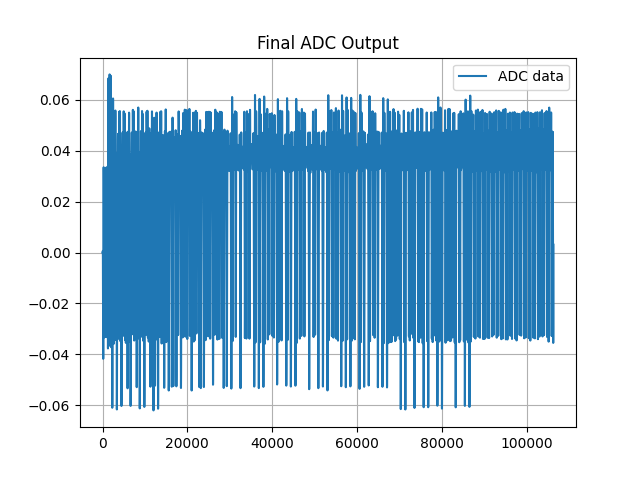
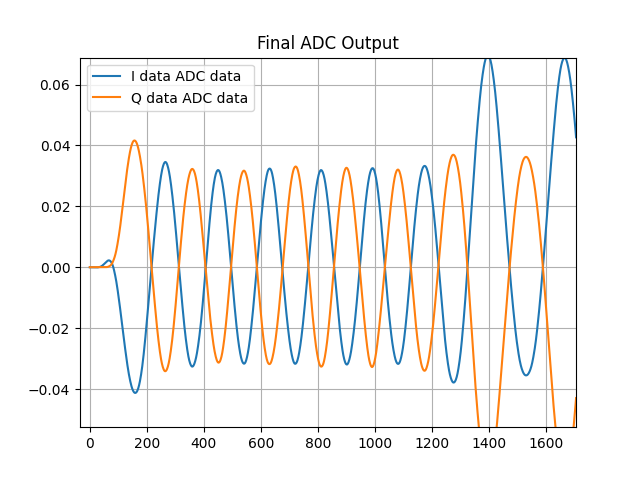
just

diff --git a/QPSK_sim.py b/QPSK_sim.py
@@ -472,7 +472,8 @@ def Demodulate (ADC_IN):
     print(max(ADC_dn_I))
 
     plt.cla()
-    plt.plot(ADC_dn_I,label = 'ADC data')
+    plt.plot(ADC_dn_I,label = 'I data ADC data')
+    plt.plot(ADC_dn_Q,label = 'Q data ADC data')
     plt.legend()
     plt.title('Final ADC Output')
     plt.grid()
